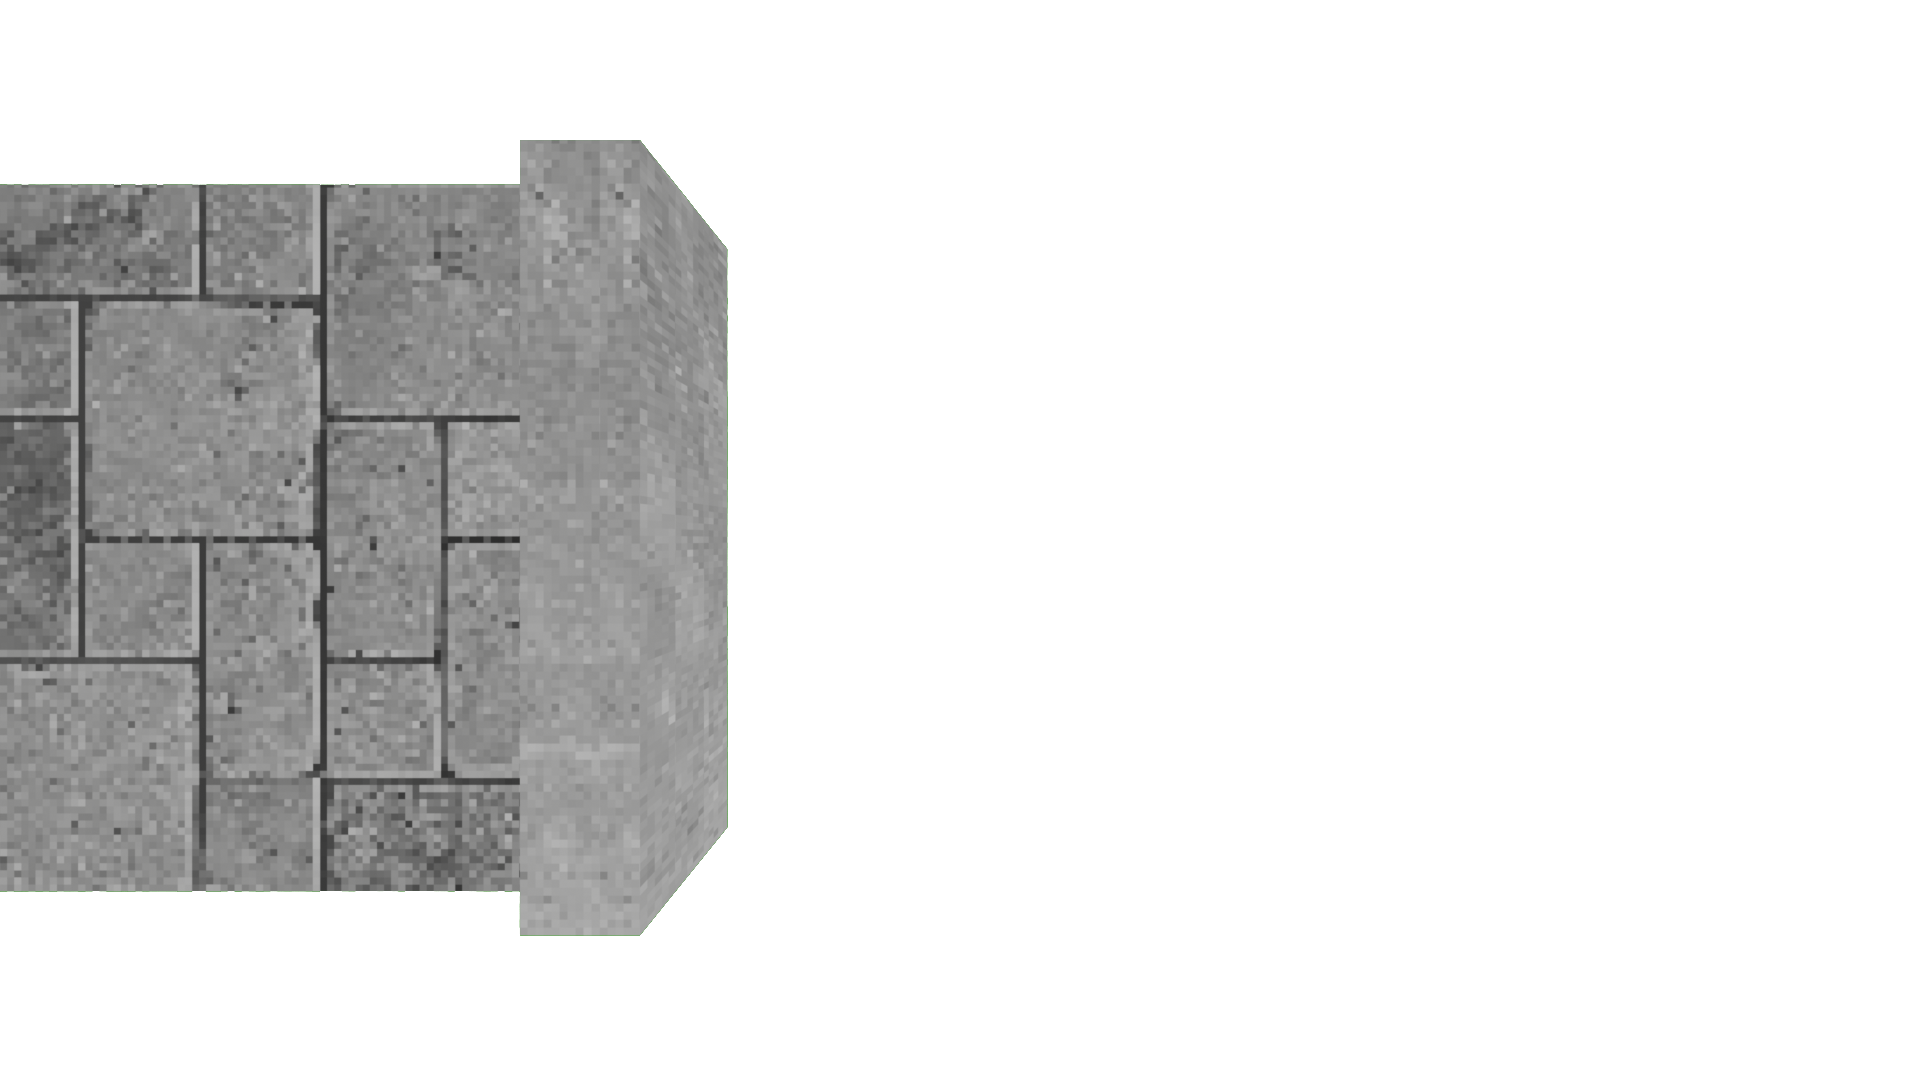
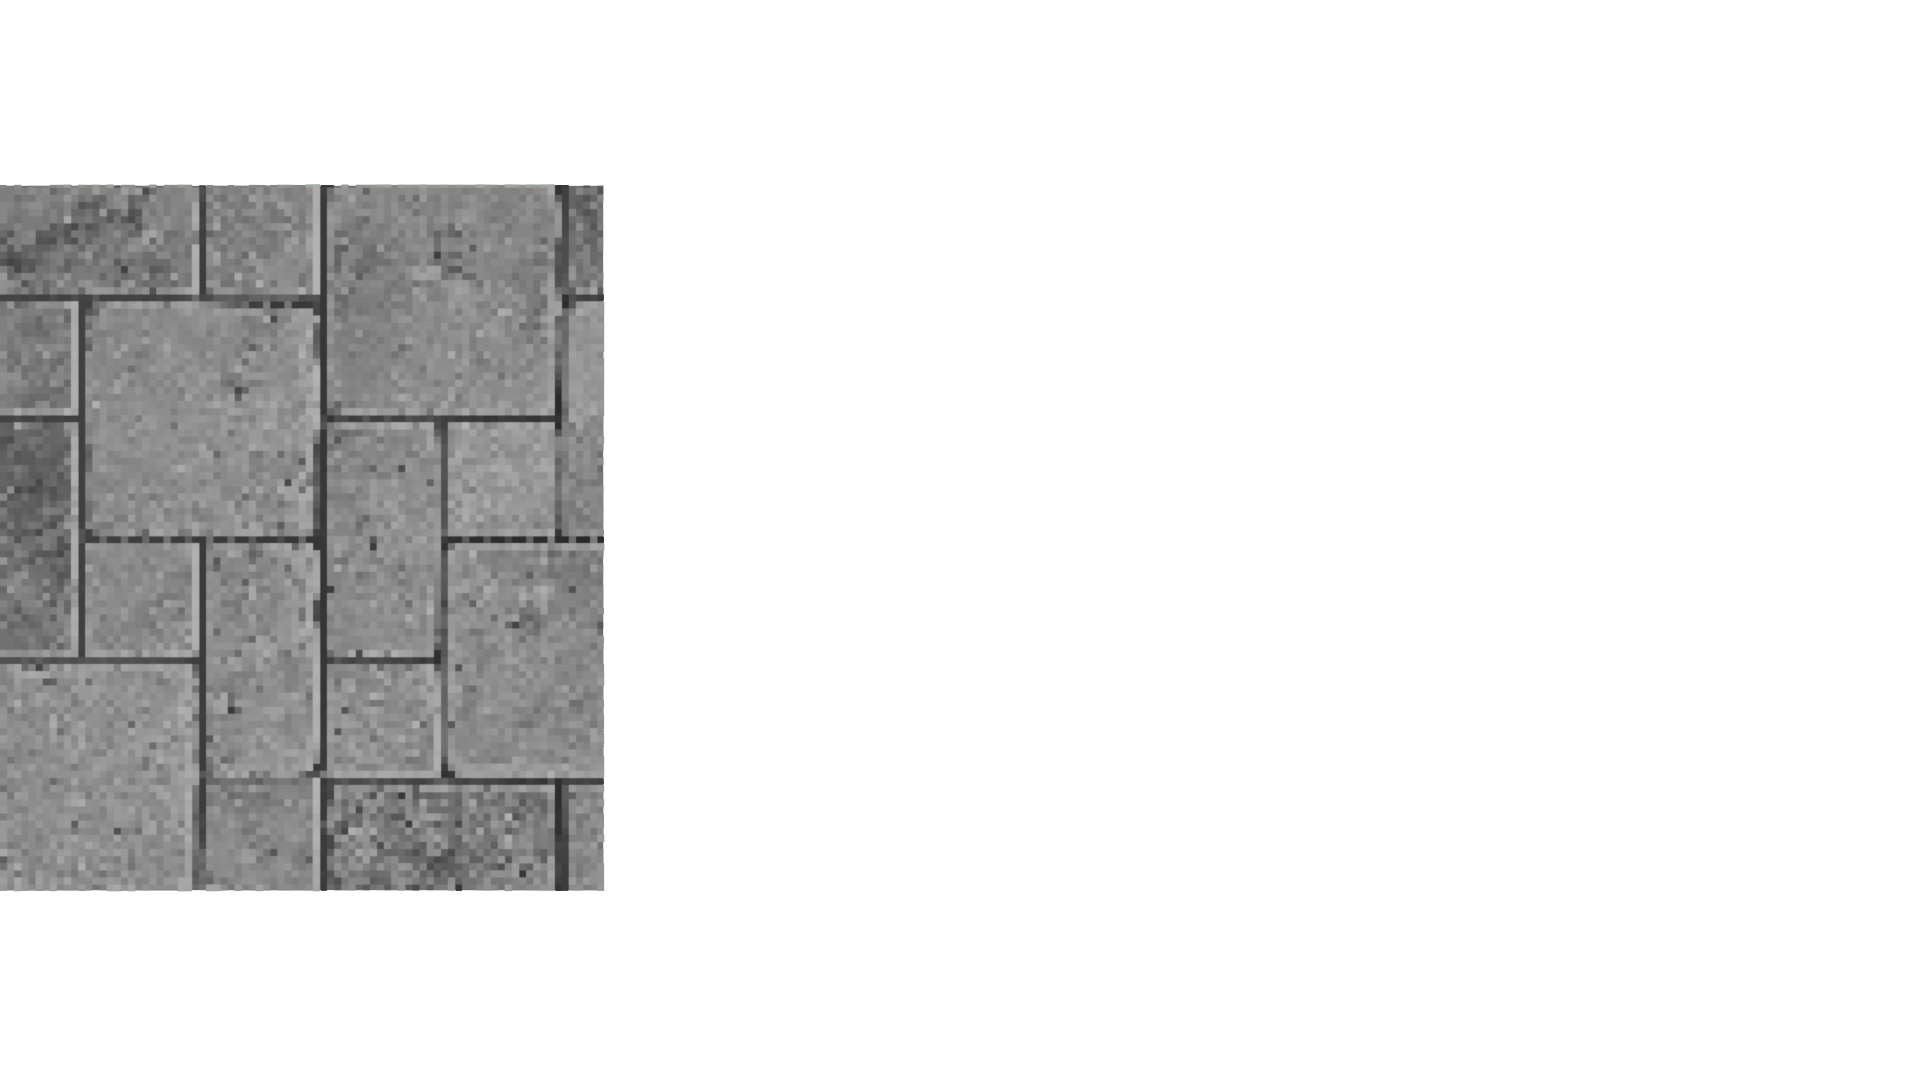
i made it work whit key W

Changed region(s): [[0.25, 0.1222, 0.4062, 0.8861]]

diff --git a/visual/game.py b/visual/game.py
@@ -17,22 +17,15 @@ class player:
         self.facing = facing
         self.maze = maze
 
-    def find_view(self, max_depth=3):
-        if self.facing == "N":
-            return self.view_N(max_depth)
-
-    def view_N(self, max_depth):
+    def view(self, max_depth =3):
         view = []
 
         for depth in range(1, max_depth + 1):
-            y = self.Y - depth + 1
-            x = self.X
+            pos = cells_around(self, 0, 0, depth)
 
-            front = self.get_wall(y, x, 1)
-
-            right = self.get_wall(y, x, 2)
-
-            left = self.get_wall(y, x, 8)
+            front = self.get_wall(pos, facing_to_bit(self, "F"))
+            right = self.get_wall(pos, facing_to_bit(self, "R"))
+            left  = self.get_wall(pos, facing_to_bit(self, "L"))
 
             view.append((left, front, right))
 
@@ -41,27 +34,44 @@ class player:
 
         return view
 
-    def get_wall(self, y, x, mask):
-        if not self.is_valid(y, x):
+    def get_wall(self, pos, mask):
+        x, y =pos
+        if not self.is_valid((y, x)):
             return True 
         return bool(self.maze[y][x] & mask)
 
-    def is_valid(self, y, x):
+    def is_valid(self, pos):
+        x, y =pos
         if y < 0 or x < 0 or y >= len(self.maze) or x >= len(self.maze[0]):
             return False
         return True
 
+    def move(self, window):
+        x, y = cells_around(self, 0, 0, 1)
+        if self.is_valid((x, y)):
+            self.X = x
+            self.Y = y
+            mlx.mlx_clear_window(ptr, window)
+            tmp_name(self, window)
+            print(self.X, self.Y)
+        else:
+            print(test)
+
+            
+            
+
 
 def tmp_name(p, window):
-    view = p.find_view()
+    view = p.view()
+    mlx.mlx_put_image_to_window(ptr, window, get_image("images/floor and ceiling.png"), 0, 0)
     print(f"view: {view}\n p {p.maze[p.Y][p.X]}")  
     for depth in reversed(range(len(view))):
         left, front, right = view[depth]
         print(f"depth={depth} left={left} front={front} right={right}") 
-        if front:
-            draw_front(depth+1, window)
         draw_left_wall(p, depth+1, window, wall=left)
         draw_right_wall(p, depth+1, window, wall=right)
+        if front:
+            draw_front(depth+1, window)
 
 def draw_front(depth, window):
     if depth == 3:
@@ -86,7 +96,7 @@ def draw_left_wall(p, depth, window, max_depth = 3, wall = True):
     # if not wall:
     #     if depth < max_depth:
     #         if depth + 1 < max_depth:
-    #             if p.get_wall(p.Y + depth, p.X - 1, 1):
+    #             if p.get_wmlx.mlx_put_image_to_window(ptr, window, get_image("images/floor and ceiling.png"), 0, 0)all(p.Y + depth, p.X - 1, 1):
     #                 pass
     #             else:
     #                 if depth + 2 < max_depth:
@@ -102,29 +112,48 @@ def draw_right_wall(p, depth, window, max_depth=3, wall=True):
         if wall:
             mlx.mlx_put_image_to_window(ptr, window, get_image("images/RWall2.png"), 0, 0)
         else:
-            if p.get_wall(p.Y + depth, p.X - 1, 1):
+            if p.get_wall(cells_around(p, 0, 1, 1), facing_to_bit(p, "F")):
                 mlx.mlx_put_image_to_window(ptr, window, get_image("images/FWall+1_2.png"), 0, 0)
     if depth == 1:
         if wall:
             mlx.mlx_put_image_to_window(ptr, window, get_image("images/RWall1.png"), 0, 0)
         else:
-            if p.get_wall(p.Y + depth, p.X - 1, 1):
+            if p.get_wall(cells_around(p, 0, 1, 0), facing_to_bit(p, "F")):
                 mlx.mlx_put_image_to_window(ptr, window, get_image("images/FWall+1 1.png"), 0, 0)
-            elif p.get_wall(p.Y + depth + 1, p.X - 1, 4):
+            elif p.get_wall(cells_around(p, 0, 1, 1), facing_to_bit(p, "R")):
                     mlx.mlx_put_image_to_window(ptr, window, get_image("images/RWall+1_2.png"), 0, 0)
-
+def cells_around(p, to_L, to_R, to_F):
+    if p.facing == 'N':
+        return (p.X + to_R - to_L, p.Y + to_F)
+    if p.facing == 'S':
+        return (p.X + to_L - to_R, p.Y - to_F)
+    if p.facing == 'E':
+        return (p.X + to_F, p.Y + to_L - to_R)
+    if p.facing == 'W':
+        return (p.X - to_F, p.Y + to_R - to_L)
+    
+def facing_to_bit(p, side):
+    mapping = {
+        'N': {'F':1, 'R':2, 'B':4, 'L':8},
+        'E': {'F':2, 'R':4, 'B':8, 'L':1},
+        'S': {'F':4, 'R':8, 'B':1, 'L':2},
+        'W': {'F':8, 'R':1, 'B':2, 'L':4},
+    }
+    return mapping[p.facing][side]
+    
 
 def render_3d(maze, X=0, Y=0, facing="N"):
     p = player(Y, X, facing, maze)
 
     window = mlx.mlx_new_window(ptr, 1920, 1080, "test")
 
-    def on_key(keynum, dummy):
-        if keynum == KEY_ESCAPE:  
+    def on_key(keynum, param):
+        if keynum == KEY_ESCAPE:
             mlx.mlx_loop_exit(ptr)
+        if keynum == KEY_W:
+            p.move(window)
 
     mlx.mlx_key_hook(window, on_key, None)
-    mlx.mlx_put_image_to_window(ptr, window, get_image("images/floor and ceiling.png"), 0, 0)
     tmp_name(p, window)
     mlx.mlx_loop(ptr)
 
